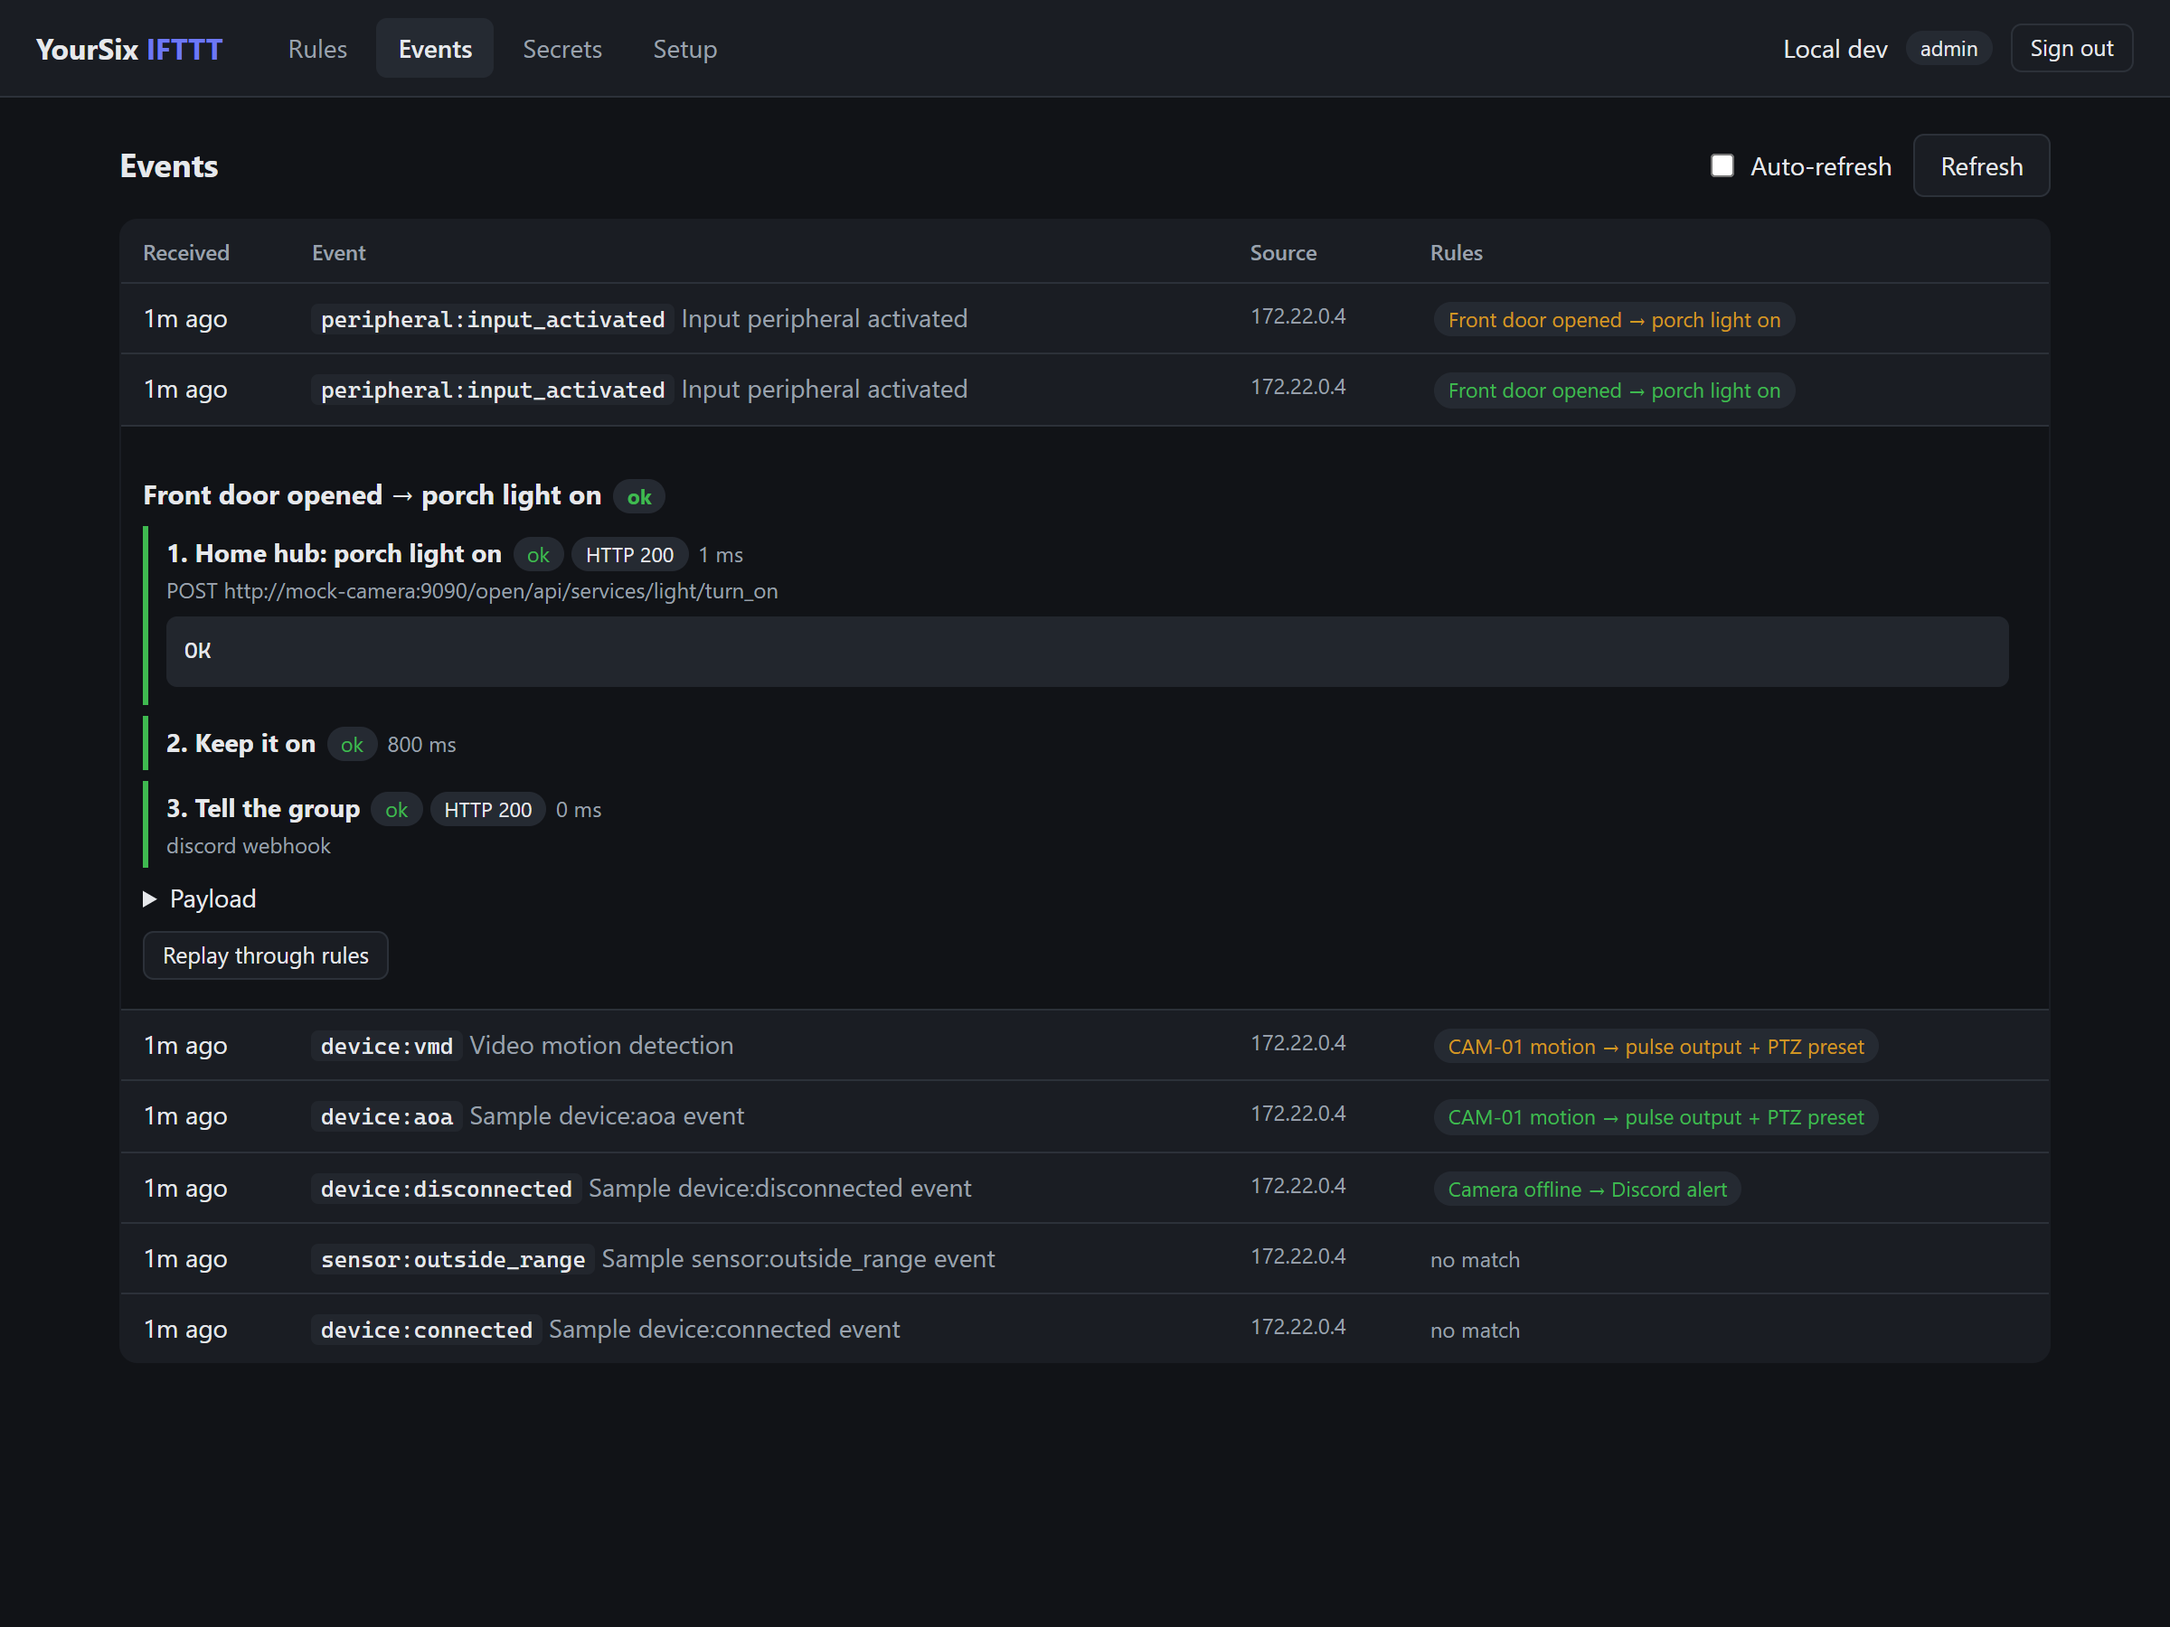
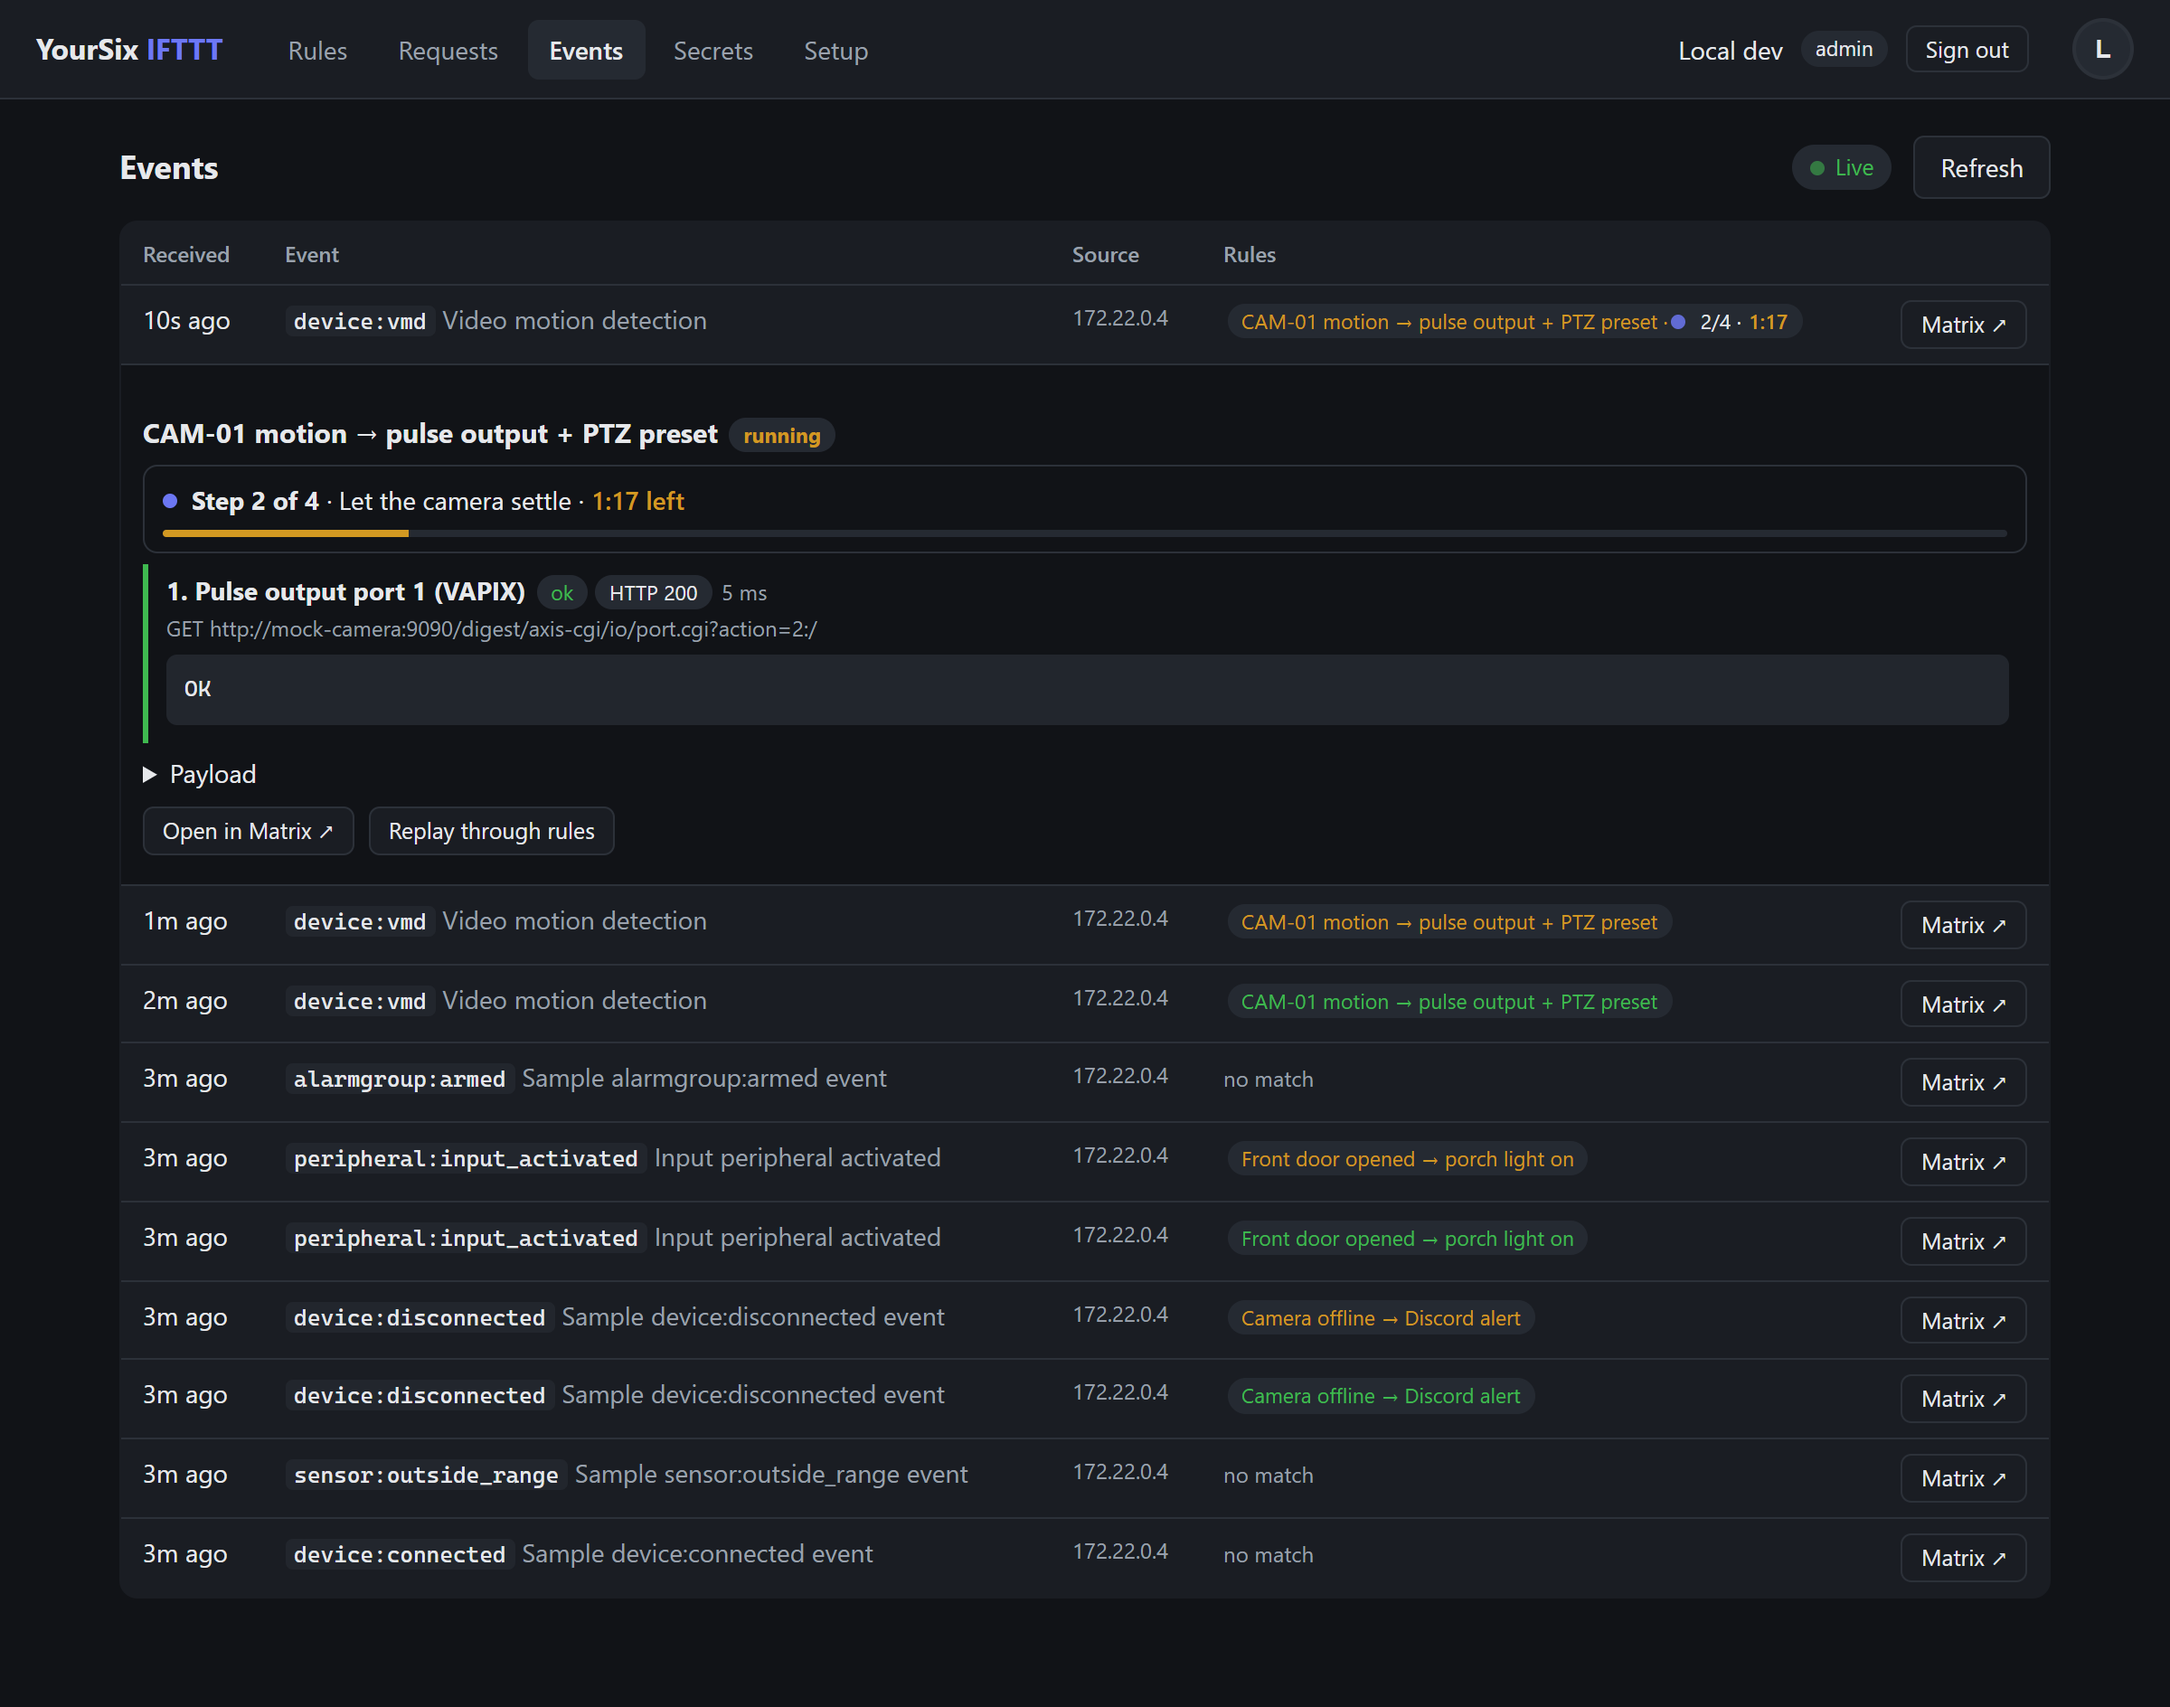
Refresh README screenshots for the current UI
Retake every light/dark capture from a fresh test environment with demo
data: enabled bars and a rule mid-run with its delay countdown, the live
event log with a running rule expanded (progress, Open in Matrix,
Replay) and ok/busy/cooldown/no-match outcomes, the rule editor with a
saved-request action, secrets, and setup. Add a Saved requests screenshot
and update the captions and alt text.

diff --git a/README.md b/README.md
@@ -8,7 +8,7 @@ A small Go service that receives [YourSix event webhooks](https://docs.yoursix.c
 
 <picture>
   <source media="(prefers-color-scheme: dark)" srcset="docs/screenshots/rules-dark.png">
-  <img alt="Rules list showing triggers, actions, cooldown and one-at-a-time badges" src="docs/screenshots/rules-light.png">
+  <img alt="Rules list: green bars on enabled rules, a running rule showing Step 2 of 4 with a delay countdown, cooldown and one-at-a-time badges" src="docs/screenshots/rules-light.png">
 </picture>
 
 ## Screenshots
@@ -17,14 +17,21 @@ A small Go service that receives [YourSix event webhooks](https://docs.yoursix.c
 
 <picture>
   <source media="(prefers-color-scheme: dark)" srcset="docs/screenshots/events-dark.png">
-  <img alt="Event log with an expanded run showing each action's HTTP status and response" src="docs/screenshots/events-light.png">
+  <img alt="Live event log: a running rule expanded with its current step and countdown, finished steps, Open in Matrix and Replay buttons, and ok, busy, cooldown and no-match outcomes" src="docs/screenshots/events-light.png">
 </picture>
 
-**Rule editor.** Pick topics and event codes, add filters, and build the action list. You can also switch to raw JSON.
+**Rule editor.** Click a rule to open it. Pick topics and event codes, add filters, choose when to ignore events, and build the action list from HTTP requests, delays, Discord messages and saved requests. You can also switch to raw JSON.
 
 <picture>
   <source media="(prefers-color-scheme: dark)" srcset="docs/screenshots/editor-dark.png">
-  <img alt="Rule editor with cooldown settings, event code pickers, filters and an HTTP action using digest auth" src="docs/screenshots/editor-light.png">
+  <img alt="Rule editor with ignore-while-running ticked, event code pickers, a filter, and actions: a saved request with its parameter, a delay and a Discord message" src="docs/screenshots/editor-light.png">
+</picture>
+
+**Saved requests.** Define a request once, with parameters, and reuse it from any rule.
+
+<picture>
+  <source media="(prefers-color-scheme: dark)" srcset="docs/screenshots/requests-dark.png">
+  <img alt="Saved requests: a PTZ preset call with digest auth and a required preset parameter, and a home-hub light call with a default entity, each listing the rules that use it" src="docs/screenshots/requests-light.png">
 </picture>
 
 **Secrets.** Encrypted, write-only, and private to each admin.
